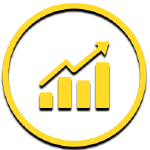
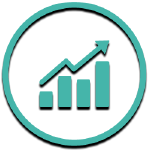
add more design to services template

diff --git a/templates/services/js/animation.js b/templates/services/js/animation.js
@@ -14,18 +14,43 @@ $(function(){
 	var services = $('#services');
 	services.delay(5000)
 			.slideDown(500);
+	var copyright = $('#copyright');
+	copyright.delay(5000)
+			.fadeIn(500);
 	
 	var growthCell = $('#growth-cell');
 	var growthIcon = $('#growth-icon');
 	var growthText = $('#growth-text');
 	growthCell.mouseover(function(){
 		growthIcon.attr('src','assets/img/growth-icon_hover.png');
-		growthText.css('color','#FFDA29');
-		growthText.css('text-shadow','1px 1px 1px black');
+		growthText.css('color','#45B5AA');
 	});
 	growthCell.mouseleave(function(){
 		growthIcon.attr('src','assets/img/growth-icon.png');
 		growthText.css('color','black');
-		growthText.css('text-shadow','none');
+	});
+	
+	var graphicDesignCell = $('#graphicDesign-cell');
+	var graphicDesignIcon = $('#graphicDesign-icon');
+	var graphicDesignText = $('#graphicDesign-text');
+	graphicDesignCell.mouseover(function(){
+		graphicDesignIcon.attr('src','assets/img/graphicDesign-icon_hover.png');
+		graphicDesignText.css('color','#45B5AA');
+	});
+	graphicDesignCell.mouseleave(function(){
+		graphicDesignIcon.attr('src','assets/img/graphicDesign-icon.png');
+		graphicDesignText.css('color','black');
+	});
+	
+	var printCell = $('#print-cell');
+	var printIcon = $('#print-icon');
+	var printText = $('#print-text');
+	printCell.mouseover(function(){
+		printIcon.attr('src','assets/img/print-icon_hover.png');
+		printText.css('color','#45B5AA');
+	});
+	printCell.mouseleave(function(){
+		printIcon.attr('src','assets/img/print-icon.png');
+		printText.css('color','black');
 	});
 });

diff --git a/templates/services/index.html b/templates/services/index.html
@@ -52,8 +52,16 @@
 			<table id="services-table" style="margin: 0 auto;">
 				<tr>
 					<td id="growth-cell">
-						<img src="assets/img/growth-icon.png" alt="promotion icon" width="100px" id="growth-icon" />
+						<img src="assets/img/growth-icon.png" alt="growth icon" width="100px" id="growth-icon" />
 						<br /><p id="growth-text">Instagram Growth</p>
+					</td>
+					<td id="graphicDesign-cell">
+						<img src="assets/img/graphicDesign-icon.png" alt="graphic design icon" width="100px" id="graphicDesign-icon" />
+						<br /><p id="graphicDesign-text">Graphic Design</p>
+					</td>
+					<td id="print-cell">
+						<img src="assets/img/print-icon.png" alt="print design icon" width="100px" id="print-icon" />
+						<br /><p id="print-text">Print &amp; Merchandising</p>
 					</td>
 				</tr>
 			</table>
@@ -89,5 +97,8 @@
 	ga('create', 'UA-134328256-1', 'auto'); ga('send', 'pageview')
 	</script>
 </body>
+<footer>
+	<div id="copyright">&#169; Etc. Management 2019</div>
+</footer>
 
 </html>

diff --git a/templates/services/css/stylesheet.css b/templates/services/css/stylesheet.css
@@ -189,7 +189,7 @@ nav #homebutton{
 	display: none;
 	text-align: center;
 	color: black;
-	margin-top: 50px;
+	margin: 50px 0px;
 	background: white;
 	opacity: .75;
 }
@@ -197,8 +197,19 @@ nav #homebutton{
 	display: inline-block;
 	opacity: 1;
 }
+#services-table td{
+	width: 250px;
+	overflow: hidden;
+    display: inline-block;
+    white-space: nowrap;
+}
 #services img{
 	cursor: pointer;
+}
+#copyright{
+	display: none;
+	color: white;
+	margin-left: 20px;
 }
 
  /* ==========================================================================
